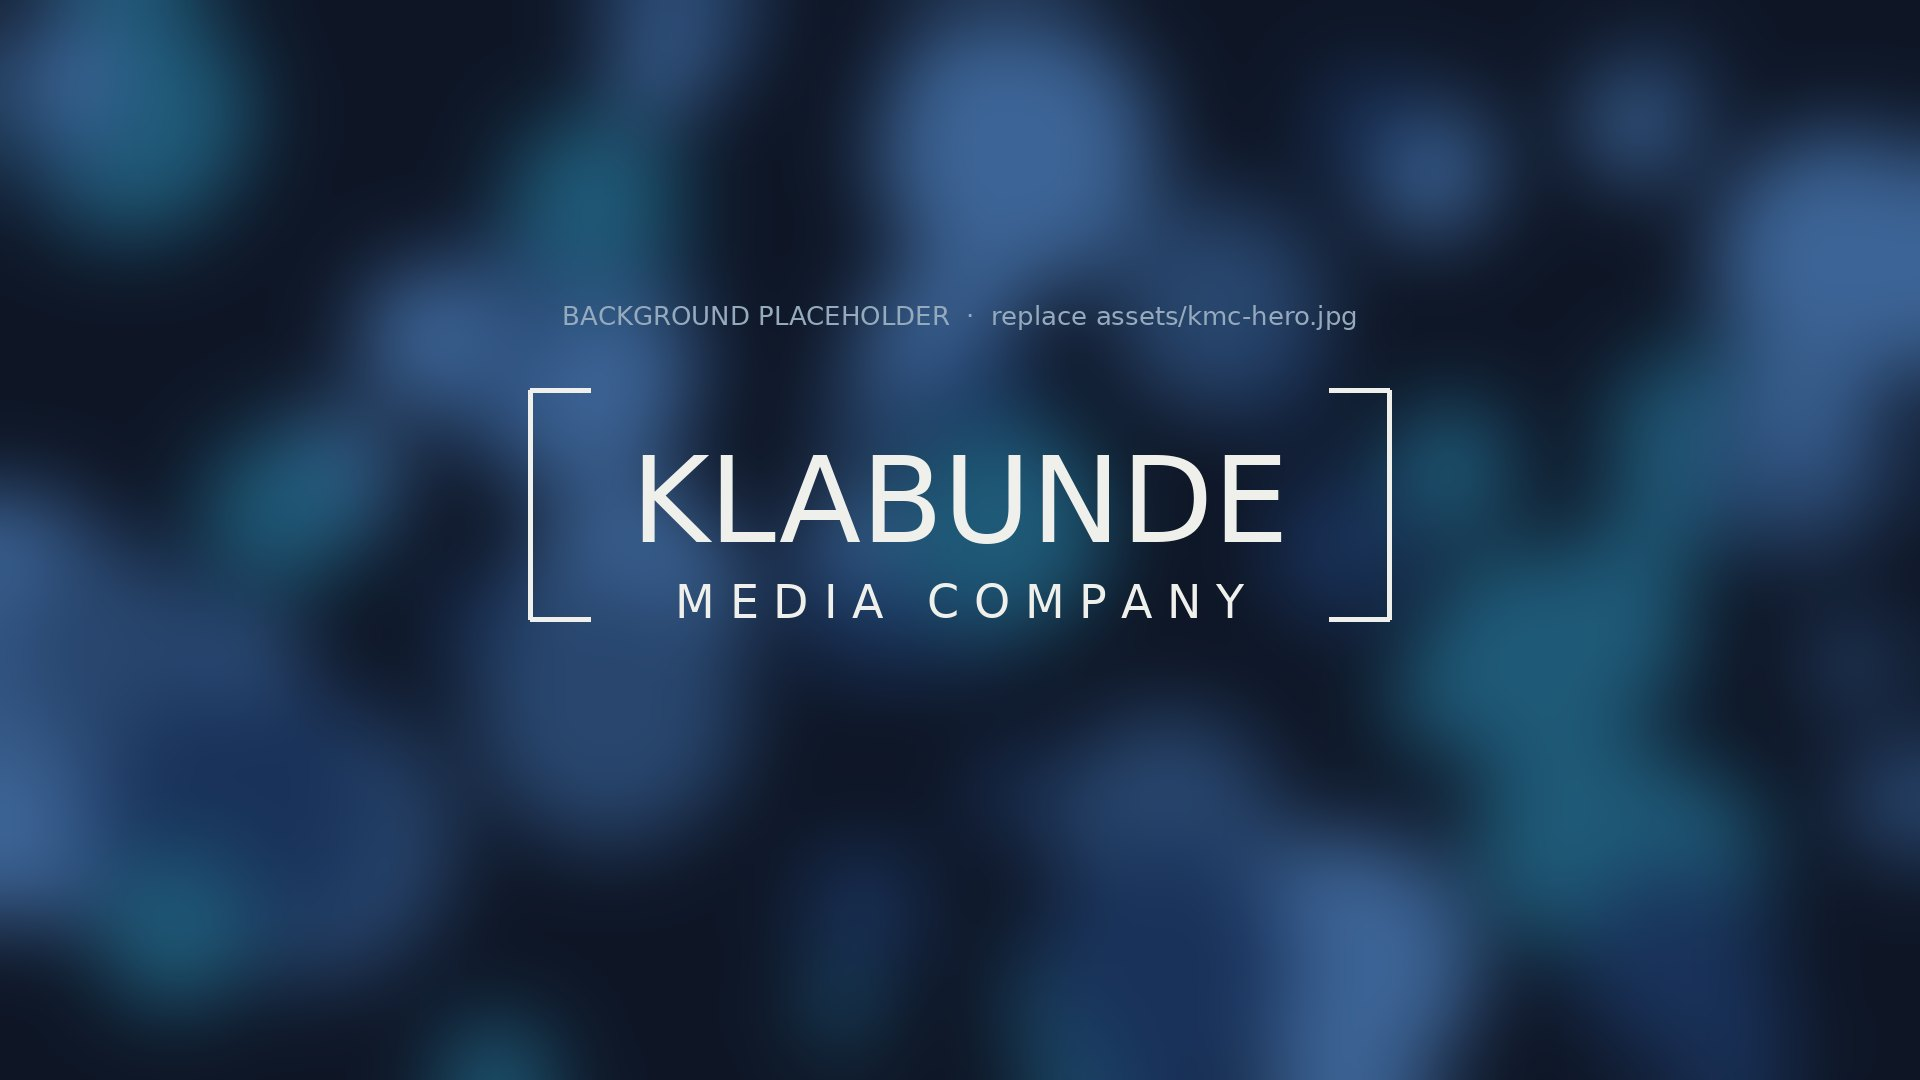
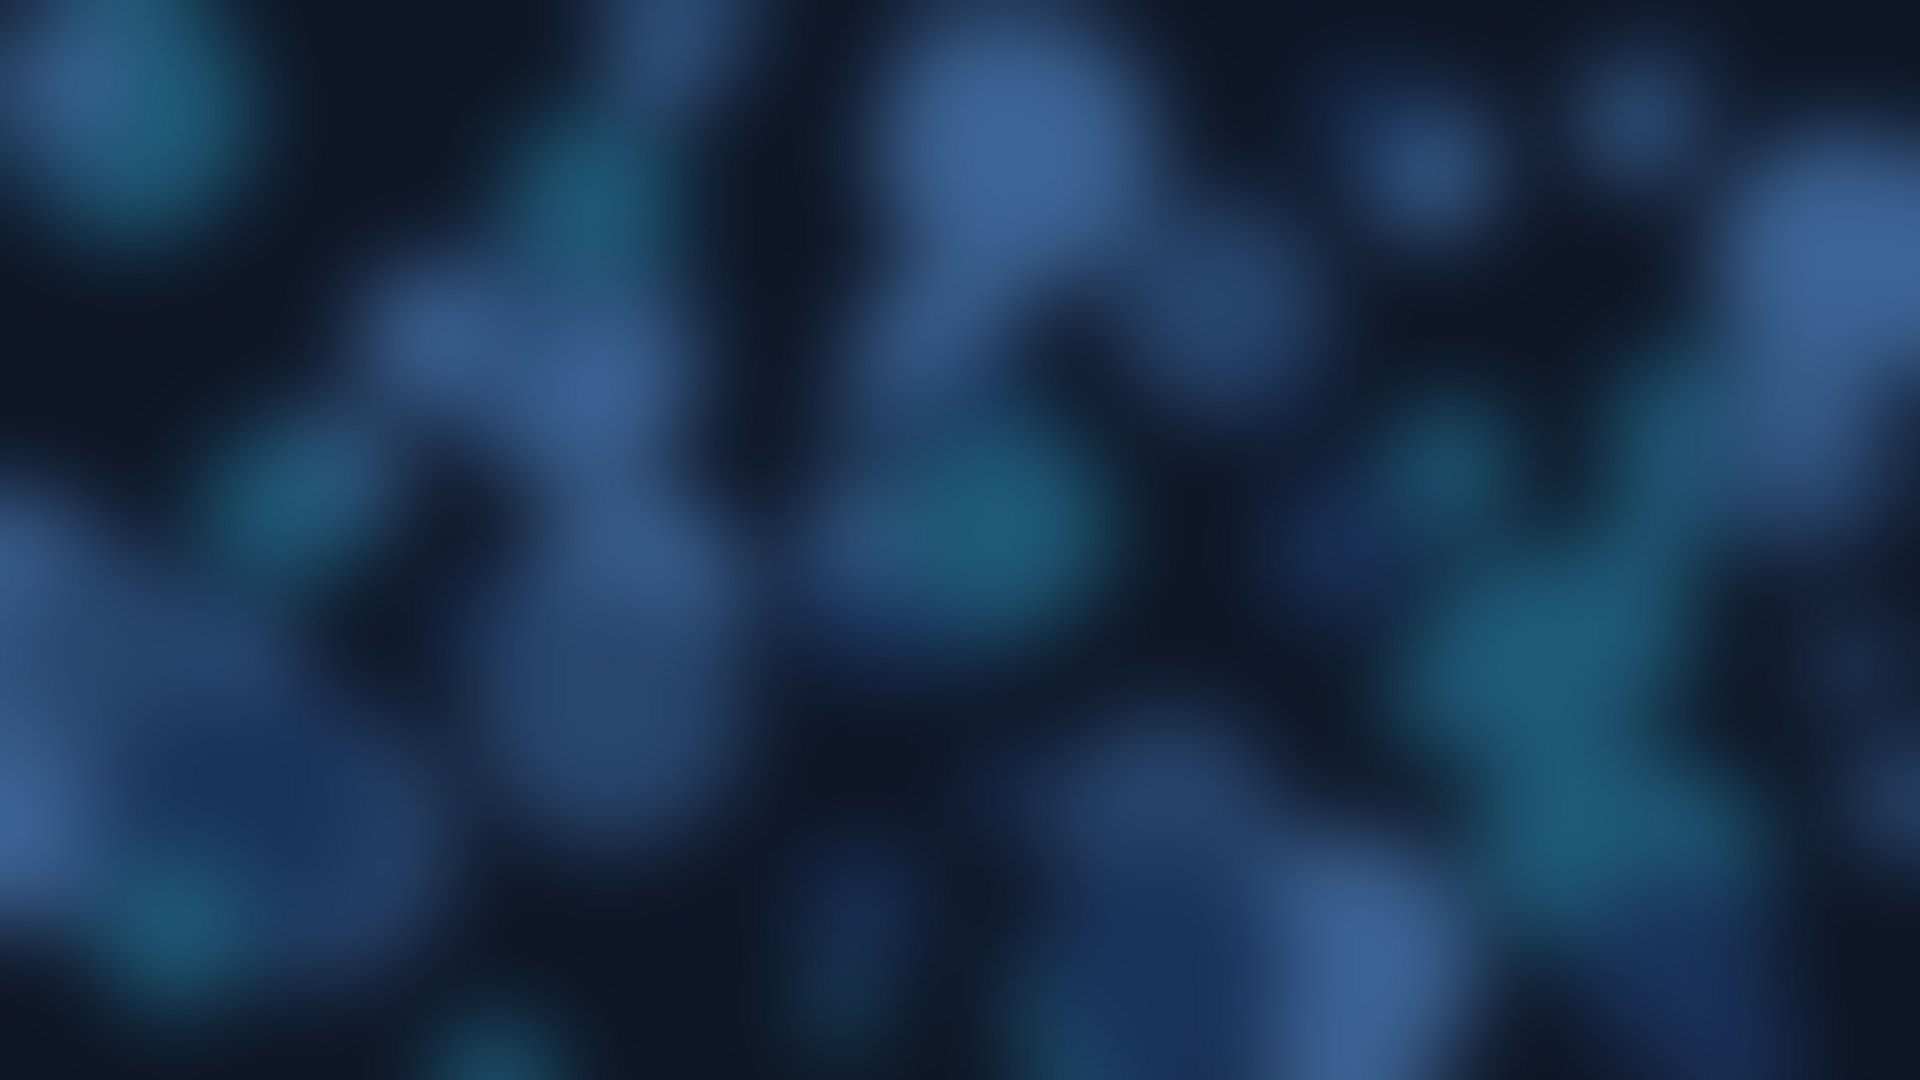
Use real KMC wordmark; clean KMC hero; cache-bust CSS

diff --git a/media-co/index.html b/media-co/index.html
@@ -9,7 +9,7 @@
 <link rel="preconnect" href="https://fonts.googleapis.com">
 <link rel="preconnect" href="https://fonts.gstatic.com" crossorigin>
 <link href="https://fonts.googleapis.com/css2?family=Cormorant+Garamond:ital,wght@0,400;0,500;1,400&family=Inter:wght@300;400;500;600&display=swap" rel="stylesheet">
-<link rel="stylesheet" href="../assets/style.css">
+<link rel="stylesheet" href="../assets/style.css?v=ed996925">
 </head>
 <body class="side-media-co">
 <div class="util-bar"><div class="wrap util-row">
@@ -27,6 +27,7 @@
   <div class="side-hero-bg" style="background-image:url('../assets/kmc-hero.jpg')"></div><div class="side-hero-overlay"></div>
   <div class="wrap side-hero-content">
     <h1 class="sr-only">Klabunde Media Co.</h1>
+    <img src="../assets/kmc-logo.png" alt="Klabunde Media Company" class="hero-logo">
     <div class="eyebrow light">Business work</div>
     <p class="hero-sub">Commercial, brand and social video production for businesses.</p>
     <a href="#reel" class="btn">Watch the showreel</a>

diff --git a/daniel/index.html b/daniel/index.html
@@ -9,7 +9,7 @@
 <link rel="preconnect" href="https://fonts.googleapis.com">
 <link rel="preconnect" href="https://fonts.gstatic.com" crossorigin>
 <link href="https://fonts.googleapis.com/css2?family=Cormorant+Garamond:ital,wght@0,400;0,500;1,400&family=Inter:wght@300;400;500;600&display=swap" rel="stylesheet">
-<link rel="stylesheet" href="../assets/style.css">
+<link rel="stylesheet" href="../assets/style.css?v=ed996925">
 </head>
 <body class="side-daniel">
 <div class="util-bar"><div class="wrap util-row">
@@ -27,6 +27,7 @@
   <div class="side-hero-bg" style="background-image:url('../assets/header.jpg')"></div><div class="side-hero-overlay"></div>
   <div class="wrap side-hero-content">
     <h1 class="sr-only">Daniel Klabunde</h1>
+    
     <div class="eyebrow light">Personal work</div>
     <p class="hero-sub">Personal projects in cinematic storytelling, color and visual craft.</p>
     <a href="#reel" class="btn">Watch the reel</a>

diff --git a/media-co/about/index.html b/media-co/about/index.html
@@ -9,7 +9,7 @@
 <link rel="preconnect" href="https://fonts.googleapis.com">
 <link rel="preconnect" href="https://fonts.gstatic.com" crossorigin>
 <link href="https://fonts.googleapis.com/css2?family=Cormorant+Garamond:ital,wght@0,400;0,500;1,400&family=Inter:wght@300;400;500;600&display=swap" rel="stylesheet">
-<link rel="stylesheet" href="../../assets/style.css">
+<link rel="stylesheet" href="../../assets/style.css?v=ed996925">
 </head>
 <body class="side-media-co">
 <div class="util-bar"><div class="wrap util-row">

diff --git a/media-co/commercial/index.html b/media-co/commercial/index.html
@@ -9,7 +9,7 @@
 <link rel="preconnect" href="https://fonts.googleapis.com">
 <link rel="preconnect" href="https://fonts.gstatic.com" crossorigin>
 <link href="https://fonts.googleapis.com/css2?family=Cormorant+Garamond:ital,wght@0,400;0,500;1,400&family=Inter:wght@300;400;500;600&display=swap" rel="stylesheet">
-<link rel="stylesheet" href="../../assets/style.css">
+<link rel="stylesheet" href="../../assets/style.css?v=ed996925">
 </head>
 <body class="side-media-co">
 <div class="util-bar"><div class="wrap util-row">

diff --git a/media-co/contact/index.html b/media-co/contact/index.html
@@ -9,7 +9,7 @@
 <link rel="preconnect" href="https://fonts.googleapis.com">
 <link rel="preconnect" href="https://fonts.gstatic.com" crossorigin>
 <link href="https://fonts.googleapis.com/css2?family=Cormorant+Garamond:ital,wght@0,400;0,500;1,400&family=Inter:wght@300;400;500;600&display=swap" rel="stylesheet">
-<link rel="stylesheet" href="../../assets/style.css">
+<link rel="stylesheet" href="../../assets/style.css?v=ed996925">
 </head>
 <body class="side-media-co">
 <div class="util-bar"><div class="wrap util-row">

diff --git a/media-co/projects/commercial-01.html b/media-co/projects/commercial-01.html
@@ -9,7 +9,7 @@
 <link rel="preconnect" href="https://fonts.googleapis.com">
 <link rel="preconnect" href="https://fonts.gstatic.com" crossorigin>
 <link href="https://fonts.googleapis.com/css2?family=Cormorant+Garamond:ital,wght@0,400;0,500;1,400&family=Inter:wght@300;400;500;600&display=swap" rel="stylesheet">
-<link rel="stylesheet" href="../../assets/style.css">
+<link rel="stylesheet" href="../../assets/style.css?v=ed996925">
 </head>
 <body class="side-media-co">
 <div class="util-bar"><div class="wrap util-row">

diff --git a/media-co/projects/commercial-02.html b/media-co/projects/commercial-02.html
@@ -9,7 +9,7 @@
 <link rel="preconnect" href="https://fonts.googleapis.com">
 <link rel="preconnect" href="https://fonts.gstatic.com" crossorigin>
 <link href="https://fonts.googleapis.com/css2?family=Cormorant+Garamond:ital,wght@0,400;0,500;1,400&family=Inter:wght@300;400;500;600&display=swap" rel="stylesheet">
-<link rel="stylesheet" href="../../assets/style.css">
+<link rel="stylesheet" href="../../assets/style.css?v=ed996925">
 </head>
 <body class="side-media-co">
 <div class="util-bar"><div class="wrap util-row">

diff --git a/media-co/projects/social-01.html b/media-co/projects/social-01.html
@@ -9,7 +9,7 @@
 <link rel="preconnect" href="https://fonts.googleapis.com">
 <link rel="preconnect" href="https://fonts.gstatic.com" crossorigin>
 <link href="https://fonts.googleapis.com/css2?family=Cormorant+Garamond:ital,wght@0,400;0,500;1,400&family=Inter:wght@300;400;500;600&display=swap" rel="stylesheet">
-<link rel="stylesheet" href="../../assets/style.css">
+<link rel="stylesheet" href="../../assets/style.css?v=ed996925">
 </head>
 <body class="side-media-co">
 <div class="util-bar"><div class="wrap util-row">

diff --git a/media-co/projects/social-02.html b/media-co/projects/social-02.html
@@ -9,7 +9,7 @@
 <link rel="preconnect" href="https://fonts.googleapis.com">
 <link rel="preconnect" href="https://fonts.gstatic.com" crossorigin>
 <link href="https://fonts.googleapis.com/css2?family=Cormorant+Garamond:ital,wght@0,400;0,500;1,400&family=Inter:wght@300;400;500;600&display=swap" rel="stylesheet">
-<link rel="stylesheet" href="../../assets/style.css">
+<link rel="stylesheet" href="../../assets/style.css?v=ed996925">
 </head>
 <body class="side-media-co">
 <div class="util-bar"><div class="wrap util-row">

diff --git a/media-co/services/index.html b/media-co/services/index.html
@@ -9,7 +9,7 @@
 <link rel="preconnect" href="https://fonts.googleapis.com">
 <link rel="preconnect" href="https://fonts.gstatic.com" crossorigin>
 <link href="https://fonts.googleapis.com/css2?family=Cormorant+Garamond:ital,wght@0,400;0,500;1,400&family=Inter:wght@300;400;500;600&display=swap" rel="stylesheet">
-<link rel="stylesheet" href="../../assets/style.css">
+<link rel="stylesheet" href="../../assets/style.css?v=ed996925">
 </head>
 <body class="side-media-co">
 <div class="util-bar"><div class="wrap util-row">

diff --git a/media-co/social/index.html b/media-co/social/index.html
@@ -9,7 +9,7 @@
 <link rel="preconnect" href="https://fonts.googleapis.com">
 <link rel="preconnect" href="https://fonts.gstatic.com" crossorigin>
 <link href="https://fonts.googleapis.com/css2?family=Cormorant+Garamond:ital,wght@0,400;0,500;1,400&family=Inter:wght@300;400;500;600&display=swap" rel="stylesheet">
-<link rel="stylesheet" href="../../assets/style.css">
+<link rel="stylesheet" href="../../assets/style.css?v=ed996925">
 </head>
 <body class="side-media-co">
 <div class="util-bar"><div class="wrap util-row">

diff --git a/daniel/about/index.html b/daniel/about/index.html
@@ -9,7 +9,7 @@
 <link rel="preconnect" href="https://fonts.googleapis.com">
 <link rel="preconnect" href="https://fonts.gstatic.com" crossorigin>
 <link href="https://fonts.googleapis.com/css2?family=Cormorant+Garamond:ital,wght@0,400;0,500;1,400&family=Inter:wght@300;400;500;600&display=swap" rel="stylesheet">
-<link rel="stylesheet" href="../../assets/style.css">
+<link rel="stylesheet" href="../../assets/style.css?v=ed996925">
 </head>
 <body class="side-daniel">
 <div class="util-bar"><div class="wrap util-row">
